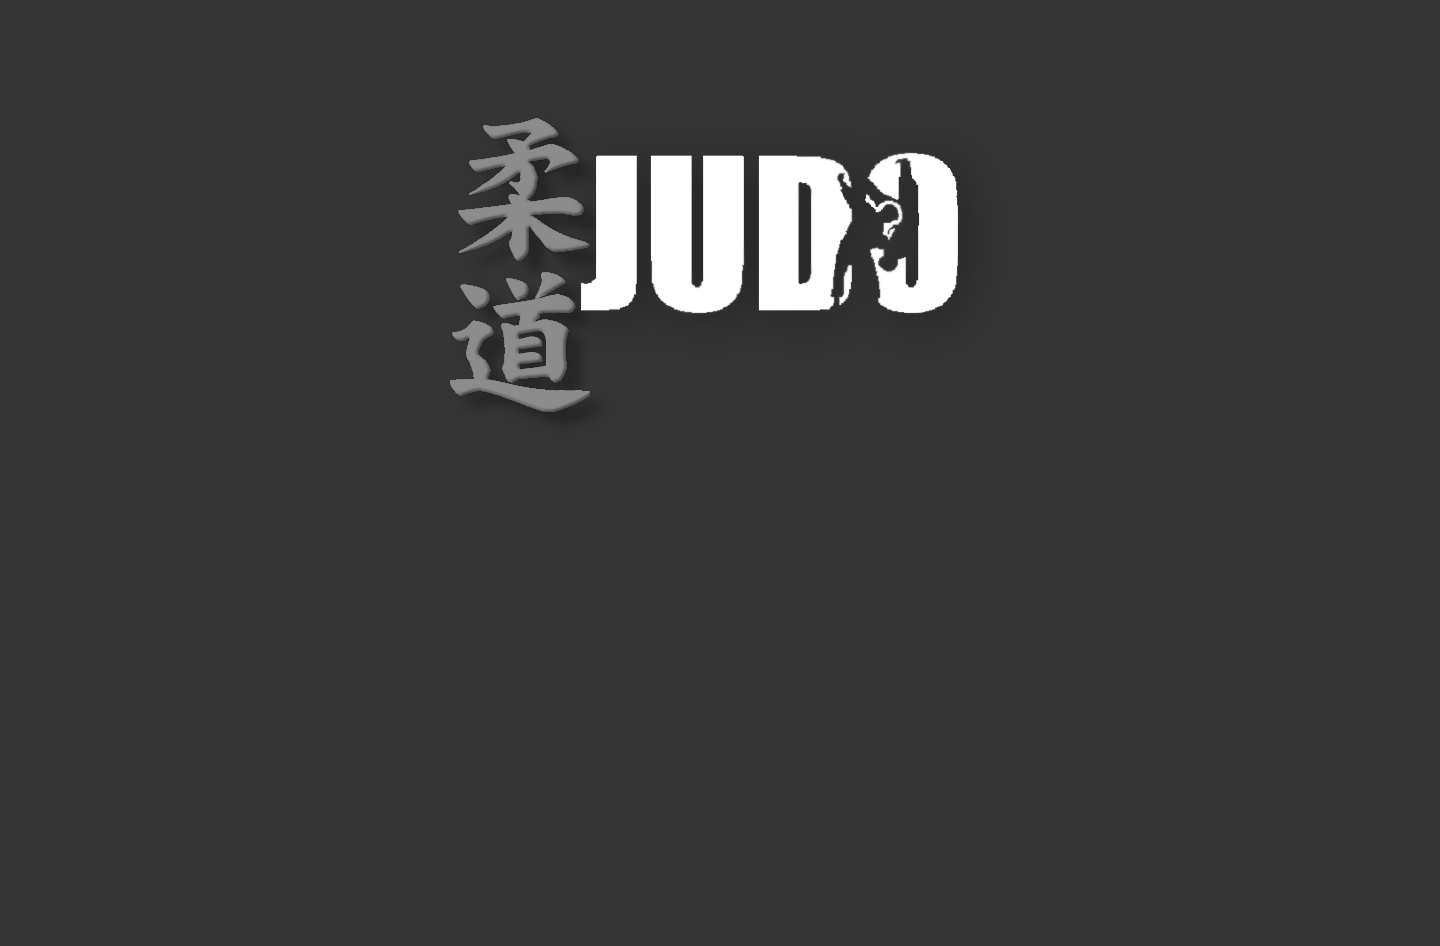
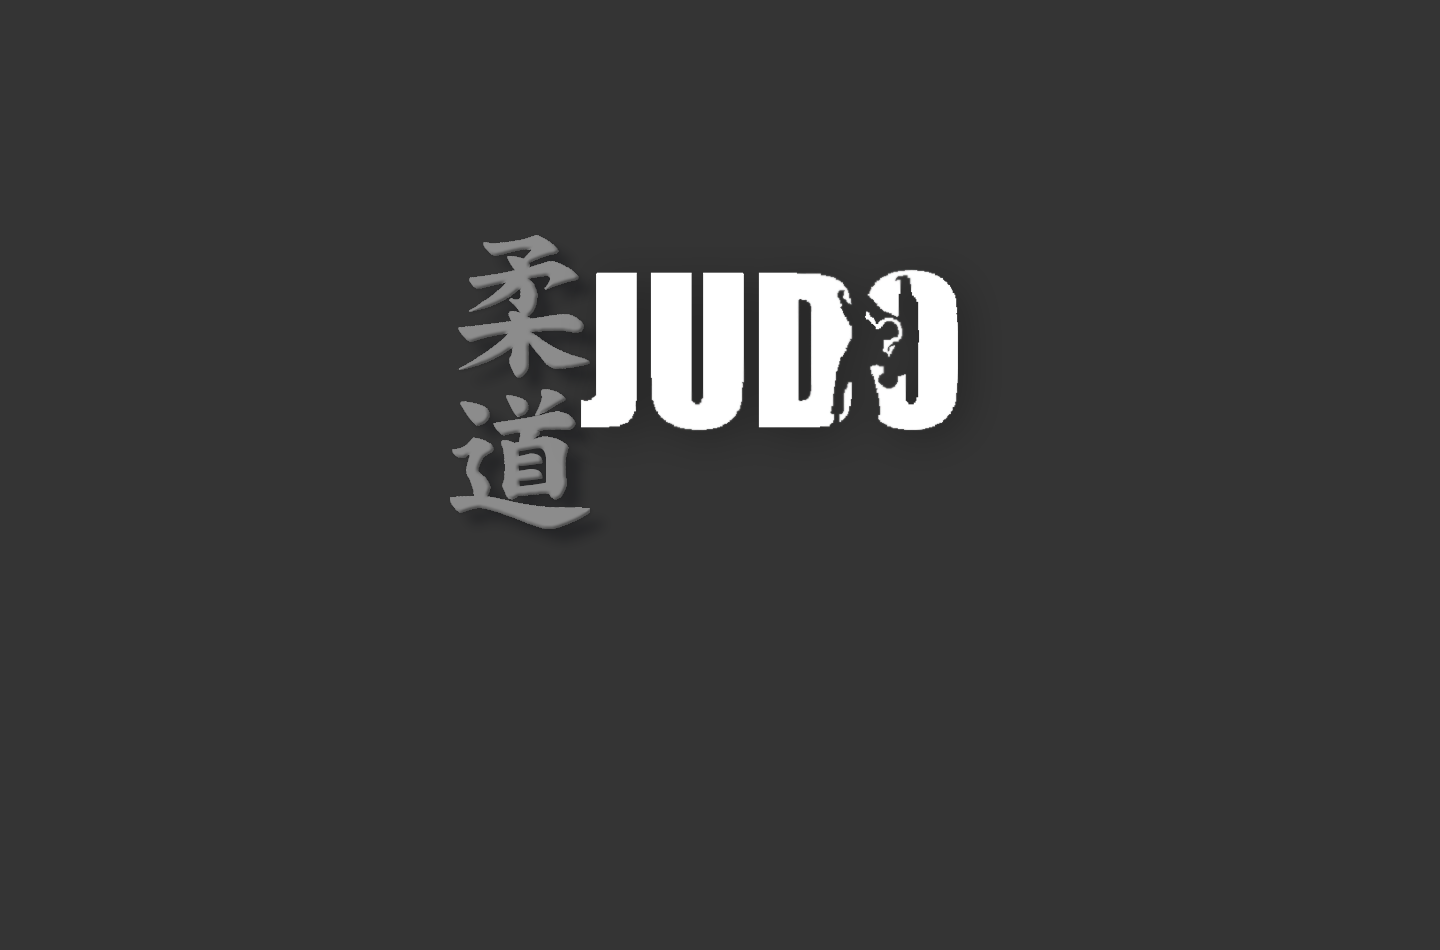
change size image header

Changed region(s): [[0.3125, 0.1226, 0.6875, 0.5518]]

diff --git a/styles/main.css b/styles/main.css
@@ -20,7 +20,6 @@ header {
 
 .menu-nav {
   display: flex;
-  align-items: flex-end;
   justify-content: center;
   width: 100%;
 }
@@ -29,13 +28,17 @@ header {
   list-style: none;
   display: flex;
   flex-direction: row;
-  align-self: center;
+  align-self: flex-end;
+  padding-bottom: 150px;
 }
 
 .menu-nav ul li a {
   color: #ffffff;
   text-decoration: none;
   border: 1px solid #ffffff;
+  padding: 20px;
+  display: flex;
+  flex-direction: column;
 }
 
 ul li {
@@ -118,6 +121,11 @@ footer {
 
   .belt-text {
     padding: 10px 35px 63px;
+  }
+
+  ul li {
+    padding-left: 20px;
+    padding-top: 150px;
   }
 }
 @media all and (max-width: 767px){
